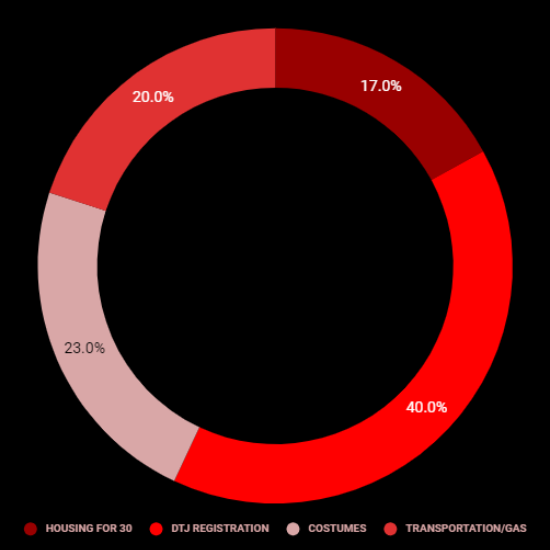
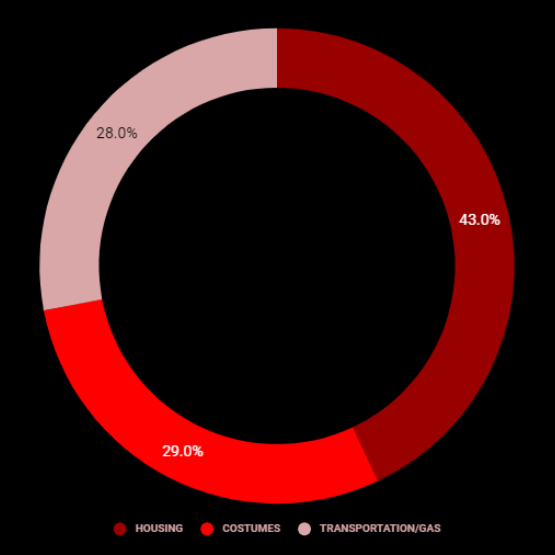
last changes

diff --git a/index.html b/index.html
@@ -184,7 +184,7 @@
                     <br>
                     <p>Partaking in this dance competition has provided irreplaceable experiences not only for our competing dancers, but for our entire ATL FSA pamilya! It has allowed us to cultivate genuine friendships within and outside of our organization, called attention to social issues present within our community, provided platforms for our members to prosper in positions of leadership, and greatly strengthened our pride as a whole.</p>
                     <br>
-                    <p>Our goal is to reach <b>$800</b> to help cover the expenditures. Supporters can donate via the Venmo or PayPal buttons below and ANY AMOUNT HELPS! Every single donation is appreciated and will provide our dancers with funds towards their costumes, studio rentals, transportation costs, and hotel fees.
+                    <p>Our goal is to reach <b>$3000</b> to help cover the expenditures. Supporters can donate via the Venmo or PayPal buttons below and ANY AMOUNT HELPS! Every single donation is appreciated and will provide our dancers with funds towards their housing, transportation costs, and costumes.
                        By emphasizing the importance of commitment, perseverance, and family, and through the help of your contributions, we hope to take home first place this upcoming competition season! </p>
                     <br>
                     <p>Maraming salamat sa inyong lahat, and thank you so much for being a part of our journey.</p>
